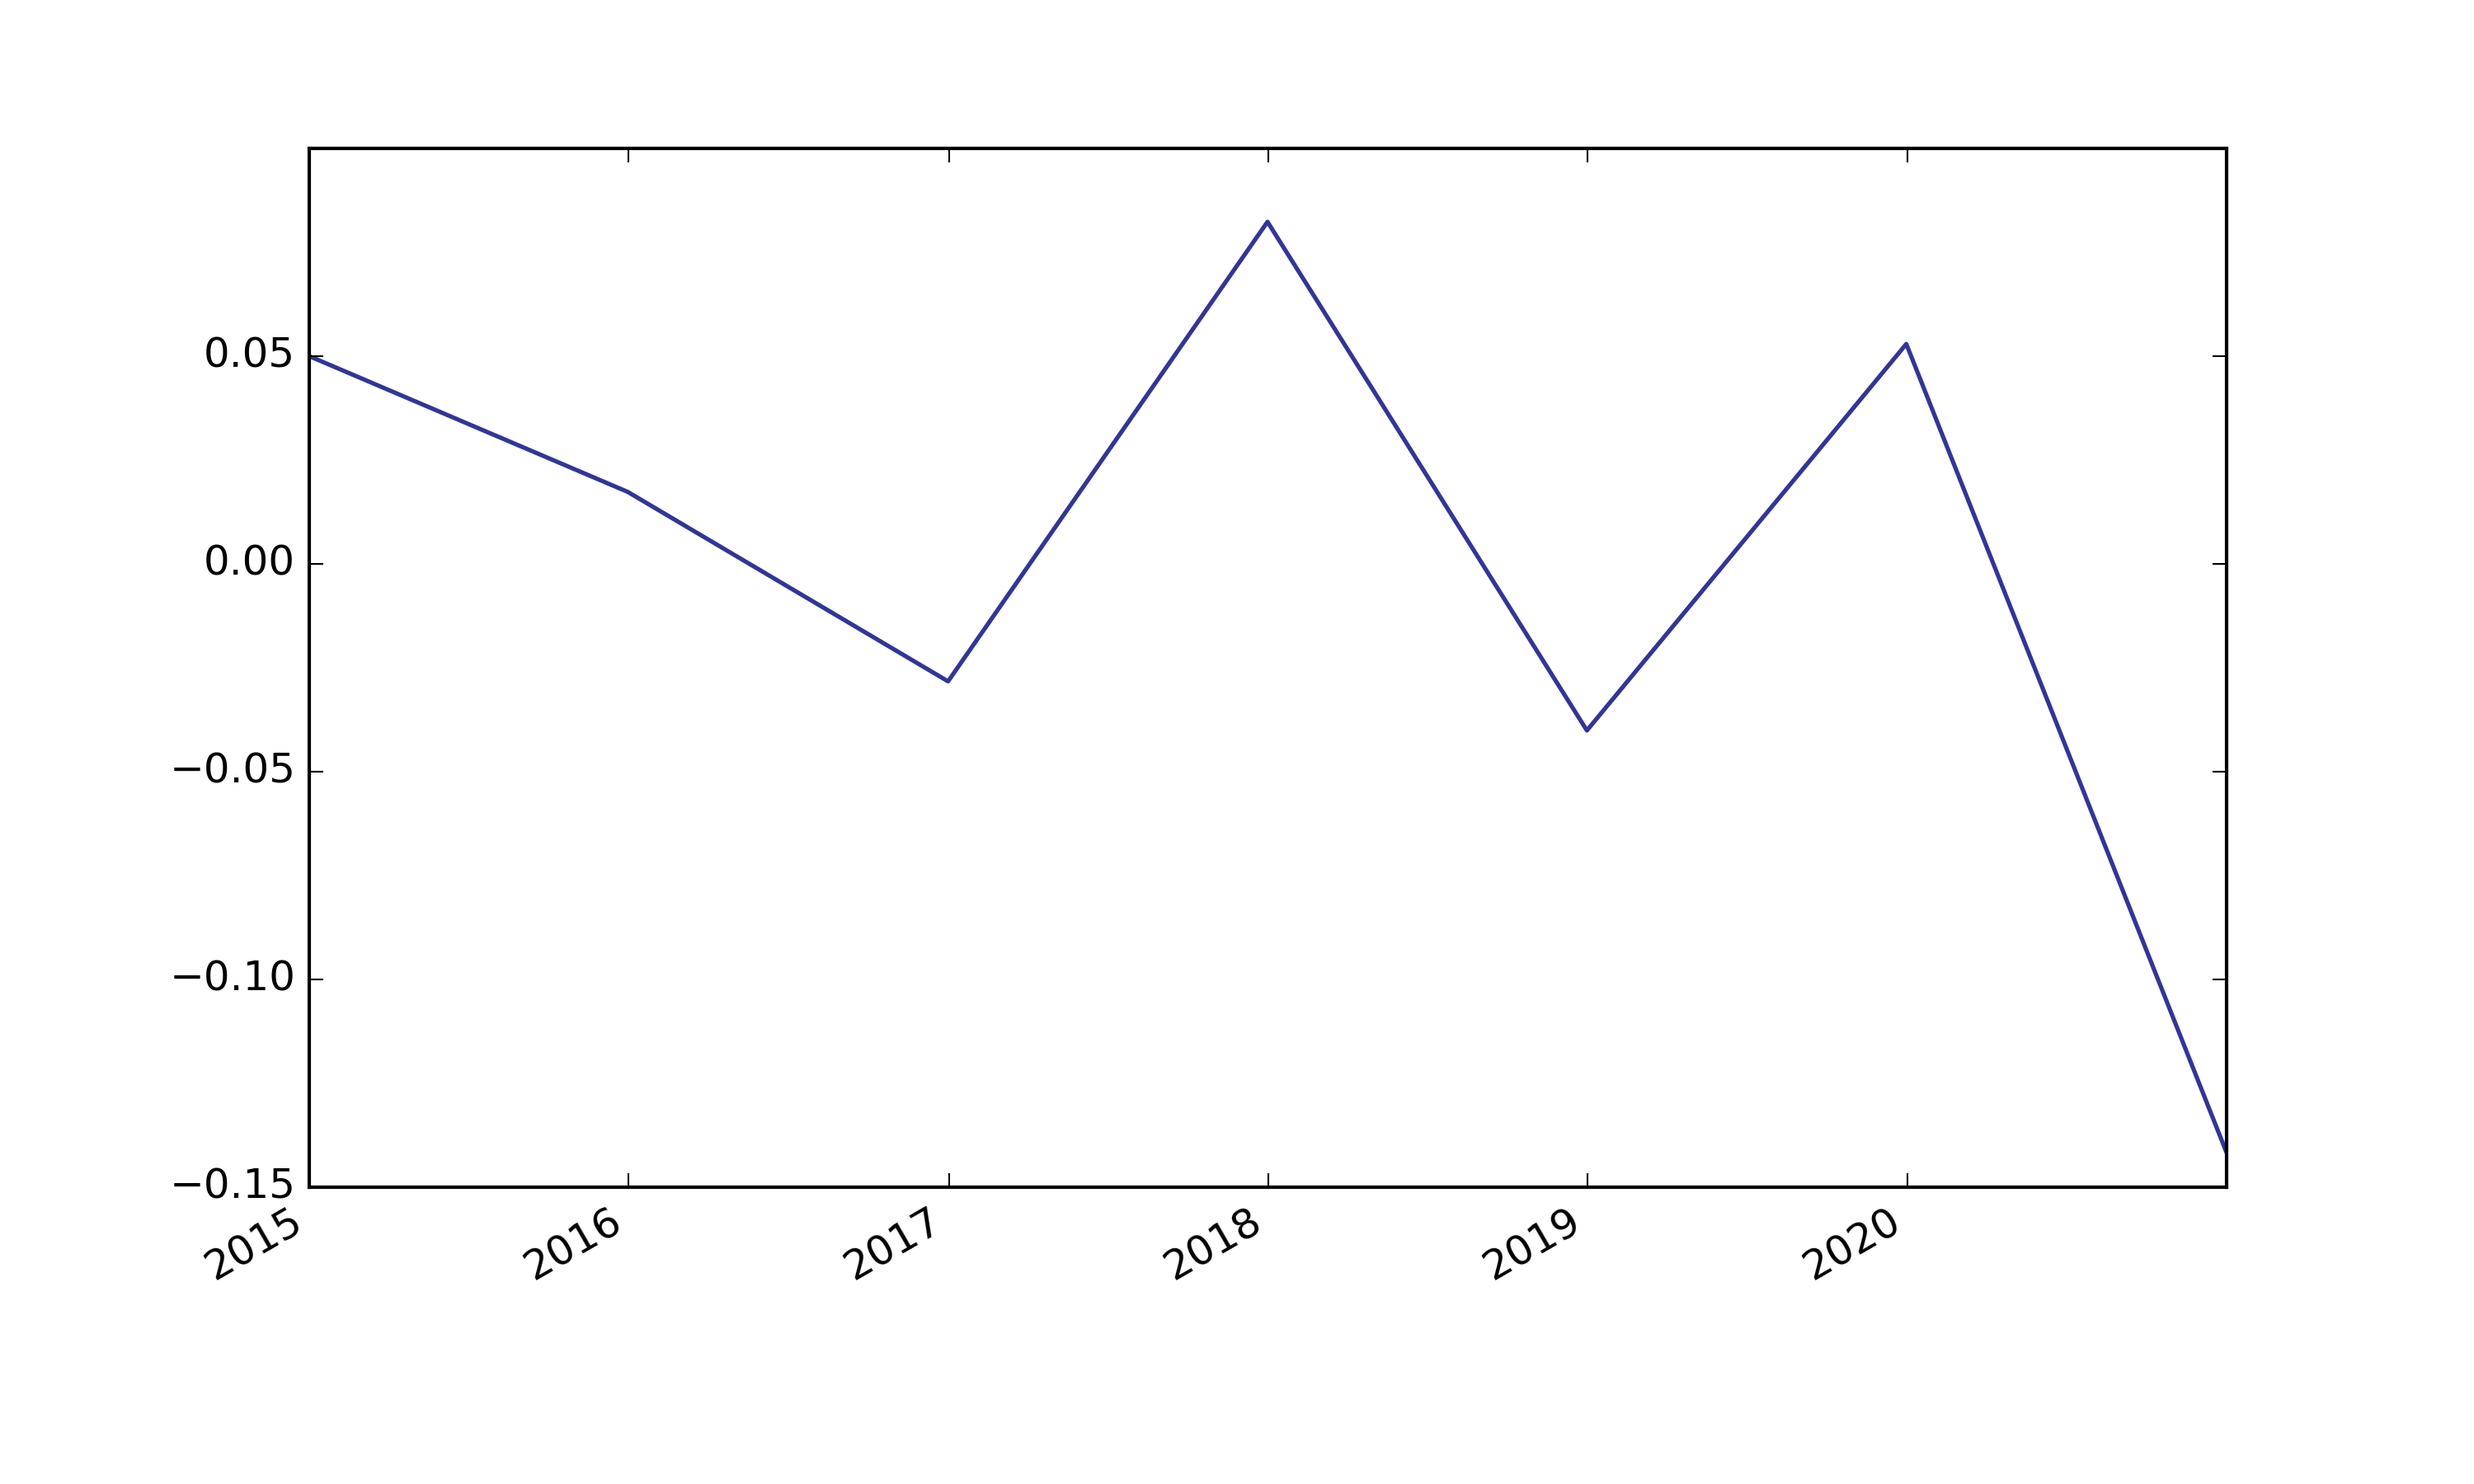
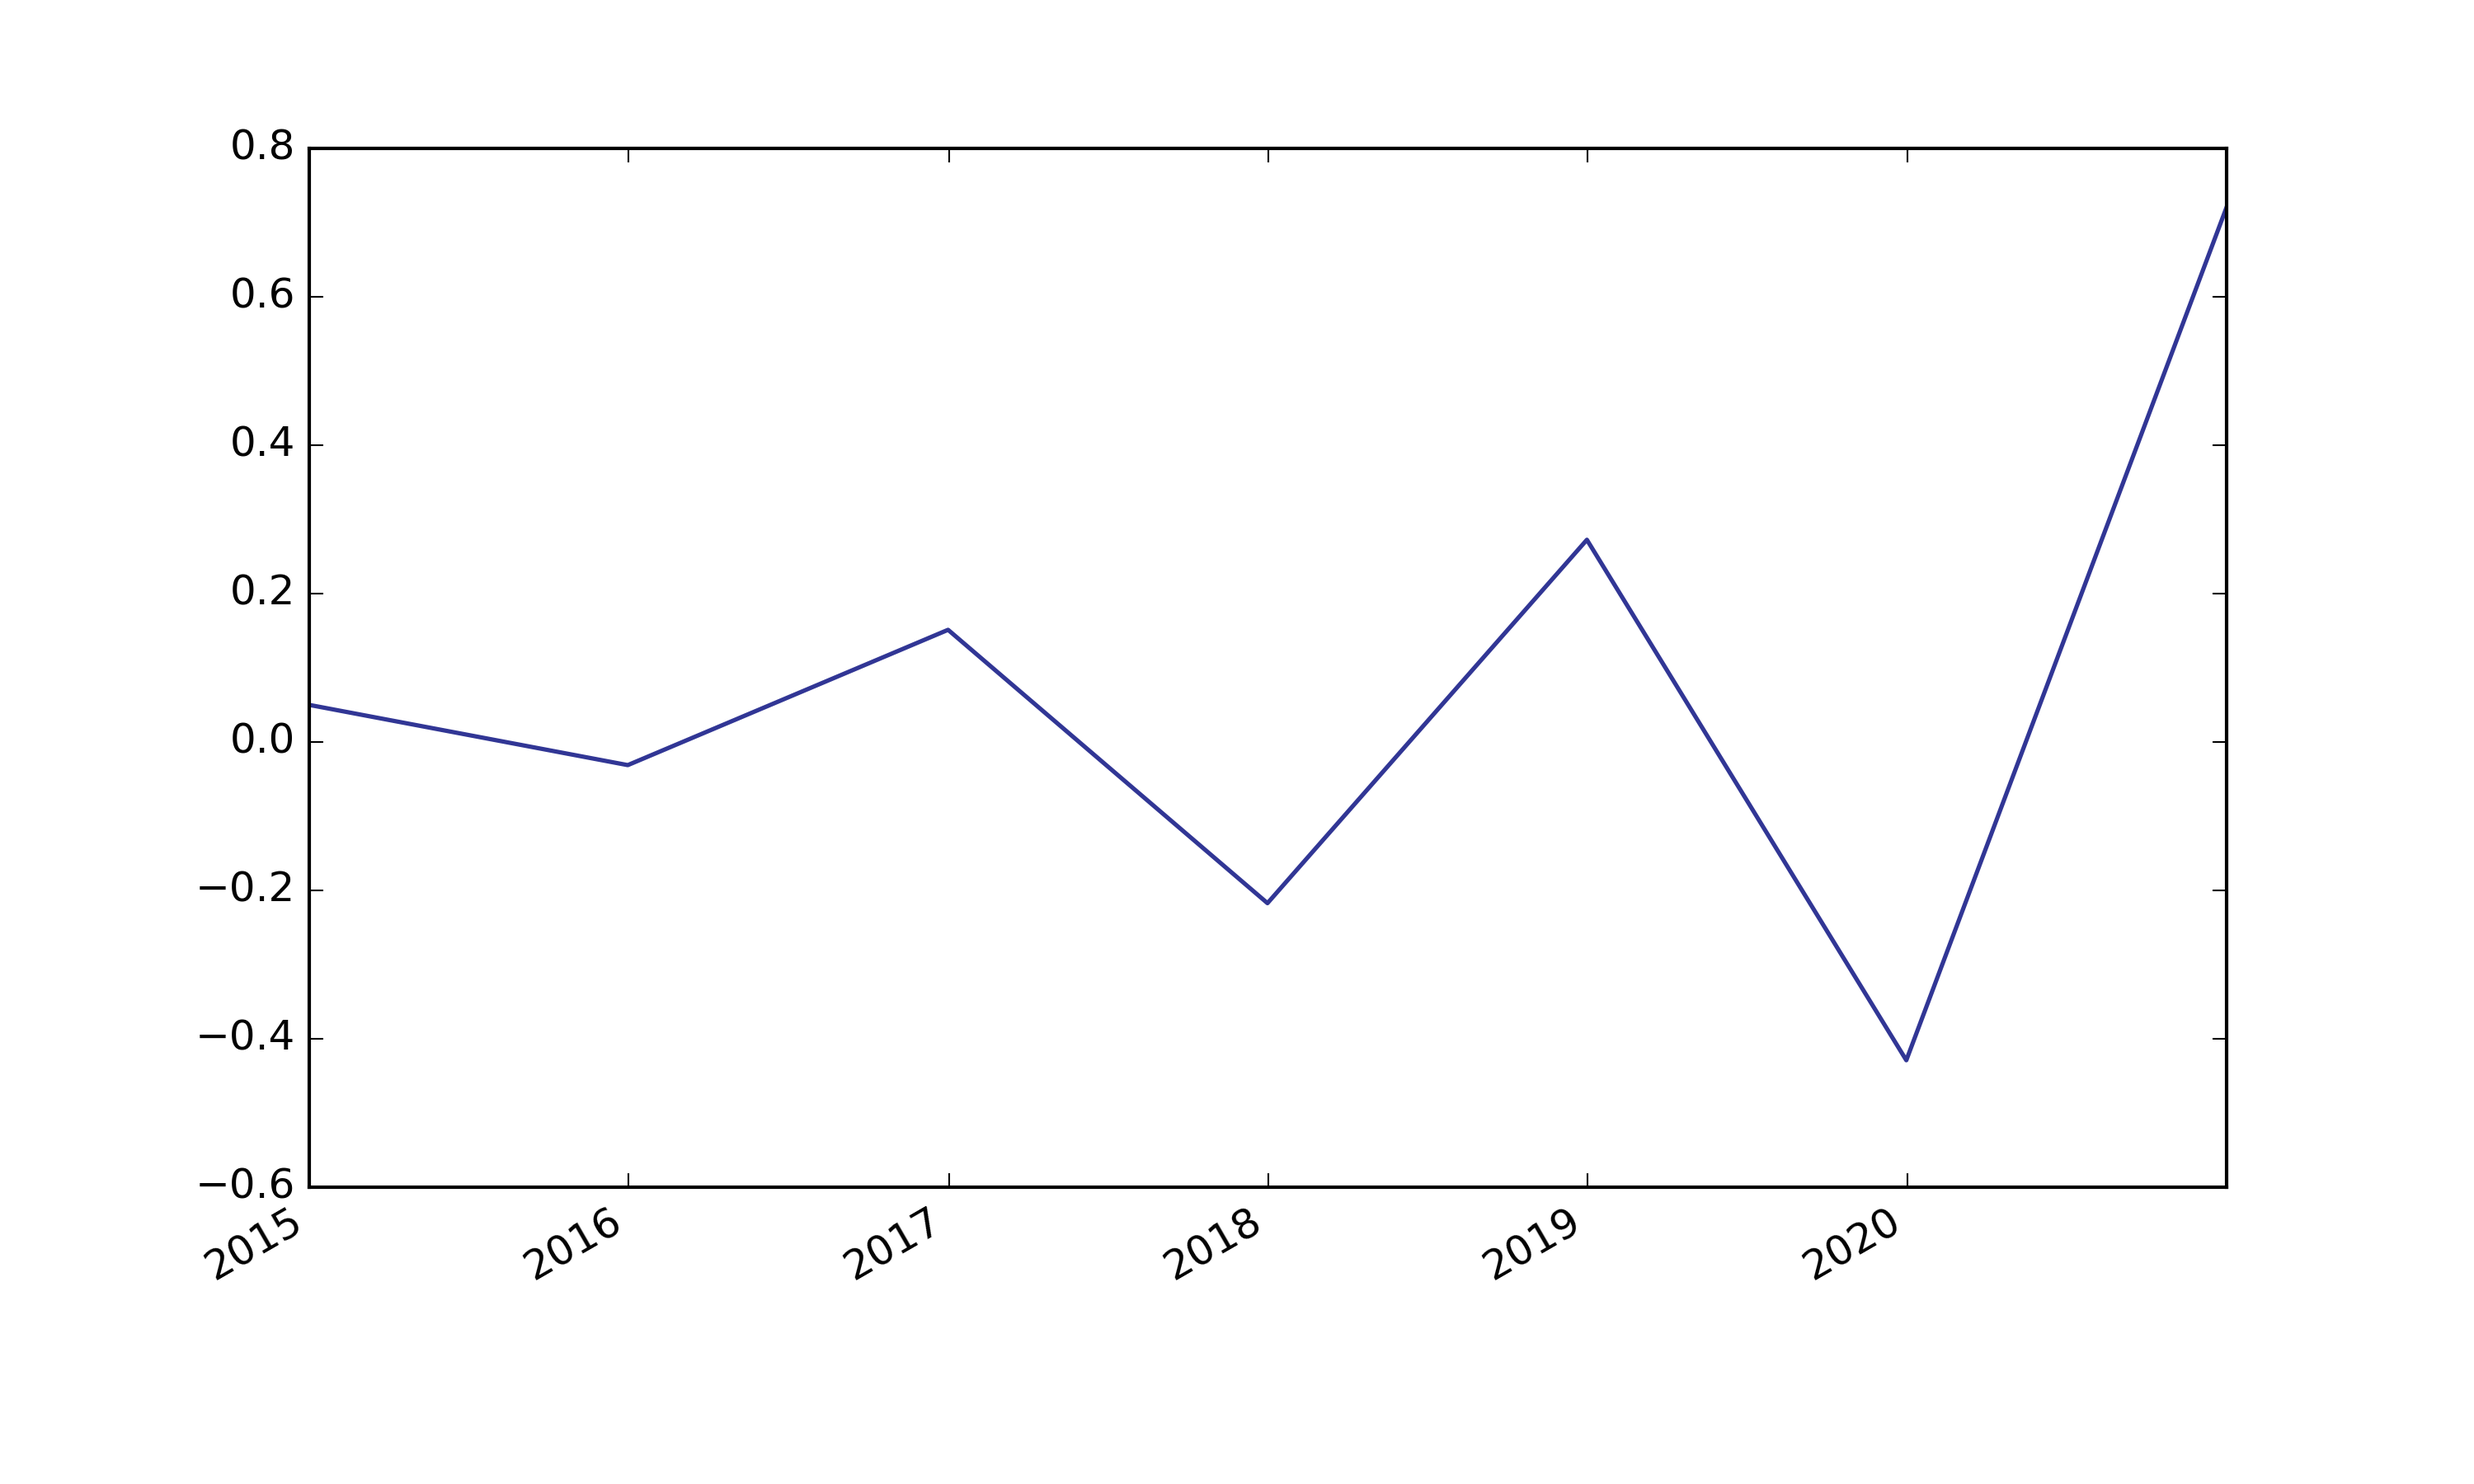
need to figure out the rj and the upward jumps with the sqrt jd

diff --git a/dx/models/square_root_jump_diffusion.py b/dx/models/square_root_jump_diffusion.py
@@ -69,14 +69,15 @@ class square_root_jump_diffusion(simulation_class):
         paths[0] = self.initial_value
         paths_[0] = self.initial_value
         if self.correlated is False:
-            rand = sn_random_numbers((1, M, I),
-                                     fixed_seed=fixed_seed)
+            rand = sn_random_numbers((1, M, I), fixed_seed=fixed_seed)
         else:
             rand = self.random_numbers
-        snr = sn_random_numbers((1, M, I),
-                                fixed_seed=fixed_seed)
+        snr = sn_random_numbers((1, M, I), fixed_seed=fixed_seed)
+        
+        # TODO what does rj do
         rj = self.lamb * (np.exp(self.mu + 0.5 * self.delt ** 2) - 1)
 
+        pdb.set_trace()
         for t in range(1, len(self.time_grid)):
             dt = (self.time_grid[t] - self.time_grid[t - 1]).days / day_count
             if self.correlated is False:
@@ -85,13 +86,15 @@ class square_root_jump_diffusion(simulation_class):
                 ran = np.dot(self.cholesky_matrix, rand[:, t, :])
                 ran = ran[self.rn_set]
             poi = np.random.poisson(self.lamb * dt, I)
+            
             # full truncation Euler discretization
-            paths_[t, :] = (paths_[t - 1, :] + self.kappa *
-                            (self.theta - np.maximum(0, paths_[t - 1, :])) * dt +
-                            np.sqrt(np.maximum(0, paths_[t - 1, :])) *
-                            self.volatility * np.sqrt(dt) * ran +
-                            ((np.exp(self.mu + self.delt * snr[t]) - 1) * poi) *
-                            np.maximum(0, paths_[t - 1, :]) - rj * dt)
+            # Same mean reversion as sqrt calc      --> kappa * (theta - prev value)
+            #                   Same drift          --> sqrt(prev val) * vol * stoch variable
+            # Same jump diffusion as other jd models --> (mu + delta * stoch var)
+            # Can have positive jumps
+            paths_[t, :] = (paths_[t - 1, :] + self.kappa * (self.theta - np.maximum(0, paths_[t - 1, :])) * dt +
+                            np.sqrt(np.maximum(0, paths_[t - 1, :])) * self.volatility * np.sqrt(dt) * ran +
+                            ((np.exp(self.mu + self.delt * snr[t]) - 1) * poi) * np.maximum(0, paths_[t - 1, :]) - rj * dt)
             paths[t, :] = np.maximum(0, paths_[t, :])
         self.instrument_values = paths
 
@@ -184,9 +187,12 @@ class square_root_jump_diffusion_plus(square_root_jump_diffusion):
             rand = self.random_numbers
         snr = sn_random_numbers((1, M, I),
                                 fixed_seed=fixed_seed)
+                                
         # forward_rates = self.discount_curve.get_forward_rates(
         #    self.time_grid, dtobjects=True)
         rj = self.lamb * (np.exp(self.mu + 0.5 * self.delt ** 2) - 1)
+        
+        pdb.set_trace()
         for t in range(1, len(self.time_grid)):
             dt = (self.time_grid[t] - self.time_grid[t - 1]).days / day_count
             if self.correlated is False:
@@ -195,13 +201,12 @@ class square_root_jump_diffusion_plus(square_root_jump_diffusion):
                 ran = np.dot(self.cholesky_matrix, rand[:, t, :])
                 ran = ran[self.rn_set]
             poi = np.random.poisson(self.lamb * dt, I)
+            
+            
             # full truncation Euler discretization
-            paths_[t] = (paths_[t - 1] + self.kappa *
-                         (self.theta - np.maximum(0, paths_[t - 1])) * dt +
-                         np.sqrt(np.maximum(0, paths_[t - 1])) *
-                         self.volatility * np.sqrt(dt) * ran +
-                         ((np.exp(self.mu + self.delt * snr[t]) - 1) * poi) *
-                         np.maximum(0, paths_[t - 1]) - rj * dt)
+            paths_[t] = (paths_[t - 1] + self.kappa * (self.theta - np.maximum(0, paths_[t - 1])) * dt + 
+                        np.sqrt(np.maximum(0, paths_[t - 1])) * self.volatility * np.sqrt(dt) * ran + 
+                        ((np.exp(self.mu + self.delt * snr[t]) - 1) * poi) * np.maximum(0, paths_[t - 1]) - rj * dt)
             paths[t] = np.maximum(0, paths_[t]) + self.shift_values[t, 1]
         self.instrument_values = paths
 

diff --git a/scrap_work/scrap.py b/scrap_work/scrap.py
@@ -271,6 +271,68 @@ def mean_revert_diff():
     plt.savefig(PATH + 'mean_revert_diff.png', dpi=300)
     plt.close()
 
+def sqrt_diffusion():
+    yields = [0.0025, 0.01, 0.015, 0.025]
+    dates = [dt.datetime(2015, 1, 1), dt.datetime(2016, 1, 1), dt.datetime(2020, 1, 1), dt.datetime(2025, 1, 1)]
+    dsr = deterministic_short_rate('dsr', list(zip(dates, yields)))
+    
+    # no_paths = 5
+    no_paths = 1
+    
+    # Market Environment setup
+    me = market_environment('me', dt.datetime(2015, 1, 1))
+    me.add_constant('initial_value', 0.05)
+    me.add_constant('volatility', 0.05)
+    me.add_constant('final_date', dt.datetime(2020, 12, 31))
+    me.add_constant('currency', 'EUR')
+    me.add_constant('frequency', 'A')       # M = monthly frequency; paramter accorind to pandas convention
+    me.add_constant('paths', no_paths)
+    me.add_curve('discount_curve', dsr)
+    
+    # Model specific variables
+    me.add_constant('kappa', 0.5)          # initial variance, vairance = vol^2
+    me.add_constant('theta', 0.1)            # exponent, 0 <= beta <= 1
+    
+    srd = square_root_diffusion('srd', me)
+    paths = srd.get_instrument_values(fixed_seed=False)
+    pdf = pd.DataFrame(paths, index=srd.time_grid)
+    pdf[pdf.columns[:no_paths]].plot(colormap=colormap, lw=lw, figsize=figsize, legend=legend)
+    plt.savefig(PATH + 'sqrt_diffusion.png', dpi=300)
+    plt.close()
+
+def sqrt_jump_diffusion():
+    yields = [0.0025, 0.01, 0.015, 0.025]
+    dates = [dt.datetime(2015, 1, 1), dt.datetime(2016, 1, 1), dt.datetime(2020, 1, 1), dt.datetime(2025, 1, 1)]
+    dsr = deterministic_short_rate('dsr', list(zip(dates, yields)))
+    
+    # no_paths = 5
+    no_paths = 1
+    
+    # Market Environment setup
+    me = market_environment('me', dt.datetime(2015, 1, 1))
+    me.add_constant('initial_value', 0.05)
+    me.add_constant('volatility', 0.05)
+    me.add_constant('final_date', dt.datetime(2020, 12, 31))
+    me.add_constant('currency', 'EUR')
+    me.add_constant('frequency', 'A')       # M = monthly frequency; paramter accorind to pandas convention
+    me.add_constant('paths', no_paths)
+    me.add_curve('discount_curve', dsr)
+    
+    # Model specific variables
+    me.add_constant('kappa', 0.5)          # initial variance, vairance = vol^2
+    me.add_constant('theta', 0.1)            # exponent, 0 <= beta <= 1
+    me.add_constant('lambda', 0.3)       # probability for a jump p.a.
+    me.add_constant('mu', -0.75)         # expected relative jump size
+    me.add_constant('delta', 0.1)        # standard deviation of relative jump
+    
+    srd = square_root_jump_diffusion('srd', me)
+    paths = srd.get_instrument_values(fixed_seed=False)
+    pdf = pd.DataFrame(paths, index=srd.time_grid)
+    pdf[pdf.columns[:no_paths]].plot(colormap=colormap, lw=lw, figsize=figsize, legend=legend)
+    plt.savefig(PATH + 'sqrt_jump_diffusion.png', dpi=300)
+    plt.close()
+    
+
 if __name__ == '__main__':
     # risk_neutral_discounting()
     # creating_market_environment()
@@ -279,4 +341,6 @@ if __name__ == '__main__':
     # jump_diffusion_run()
     # stoch_volatility()
     # sabr_stoch_vol()
-    mean_revert_diff()
+    # mean_revert_diff()
+    # sqrt_diffusion()
+    sqrt_jump_diffusion()

diff --git a/dx/models/square_root_diffusion.py b/dx/models/square_root_diffusion.py
@@ -61,7 +61,8 @@ class square_root_diffusion(simulation_class):
                                      fixed_seed=fixed_seed)
         else:
             rand = self.random_numbers
-
+        
+        pdb.set_trace()
         for t in range(1, len(self.time_grid)):
             dt = (self.time_grid[t] - self.time_grid[t - 1]).days / day_count
             if self.correlated is False:
@@ -71,10 +72,11 @@ class square_root_diffusion(simulation_class):
                 ran = ran[self.rn_set]
 
             # full truncation Euler discretization
-            paths_[t] = (paths_[t - 1] + self.kappa *
-                         (self.theta - np.maximum(0, paths_[t - 1])) * dt +
-                         np.sqrt(np.maximum(0, paths_[t - 1])) *
-                         self.volatility * np.sqrt(dt) * ran)
+            # Cox-Ingersoll-Ross model
+            # Exactly the same as the mean reversion calculation except the weiner process product is multiplied
+            # by the sqrt of the previous steps value...TODO: why is that helpful?
+            paths_[t] = (paths_[t - 1] + self.kappa * (self.theta - np.maximum(0, paths_[t - 1])) * dt +
+                         np.sqrt(np.maximum(0, paths_[t - 1])) * self.volatility * np.sqrt(dt) * ran)
             paths[t] = np.maximum(0, paths_[t])
         self.instrument_values = paths
 

diff --git a/dx/models/jump_diffusion.py b/dx/models/jump_diffusion.py
@@ -81,6 +81,7 @@ class jump_diffusion(simulation_class):
             self.time_grid, self.paths, dtobjects=True)[1]
 
         pdb.set_trace()
+        # TODO: What does rj do?
         rj = self.lamb * (np.exp(self.mu + 0.5 * self.delt ** 2) - 1)
         for t in range(1, len(self.time_grid)):
             # select the right time slice from the relevant
@@ -102,9 +103,6 @@ class jump_diffusion(simulation_class):
             # Drift
             rt = (forward_rates[t - 1] + forward_rates[t]) / 2
             
-            paths[t] = paths[t - 1] * (
-                np.exp((rt - rj - 0.5 * self.volatility ** 2) * dt +
-                       self.volatility * np.sqrt(dt) * ran) +
-                (np.exp(self.mu + self.delt * sn2[t]) - 1) * poi)
-        
+            paths[t] = paths[t - 1] * (np.exp((rt - rj - 0.5 * self.volatility ** 2) * dt + 
+                        self.volatility * np.sqrt(dt) * ran) + (np.exp(self.mu + self.delt * sn2[t]) - 1) * poi)
         self.instrument_values = paths
